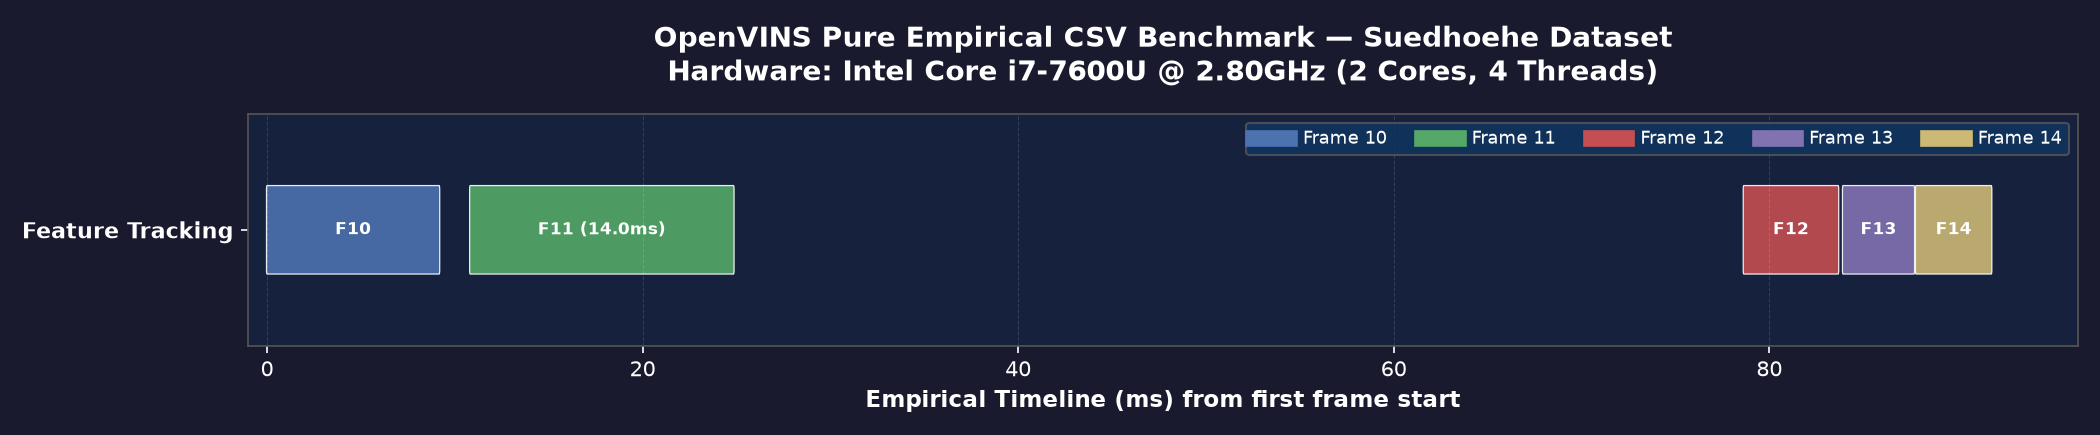
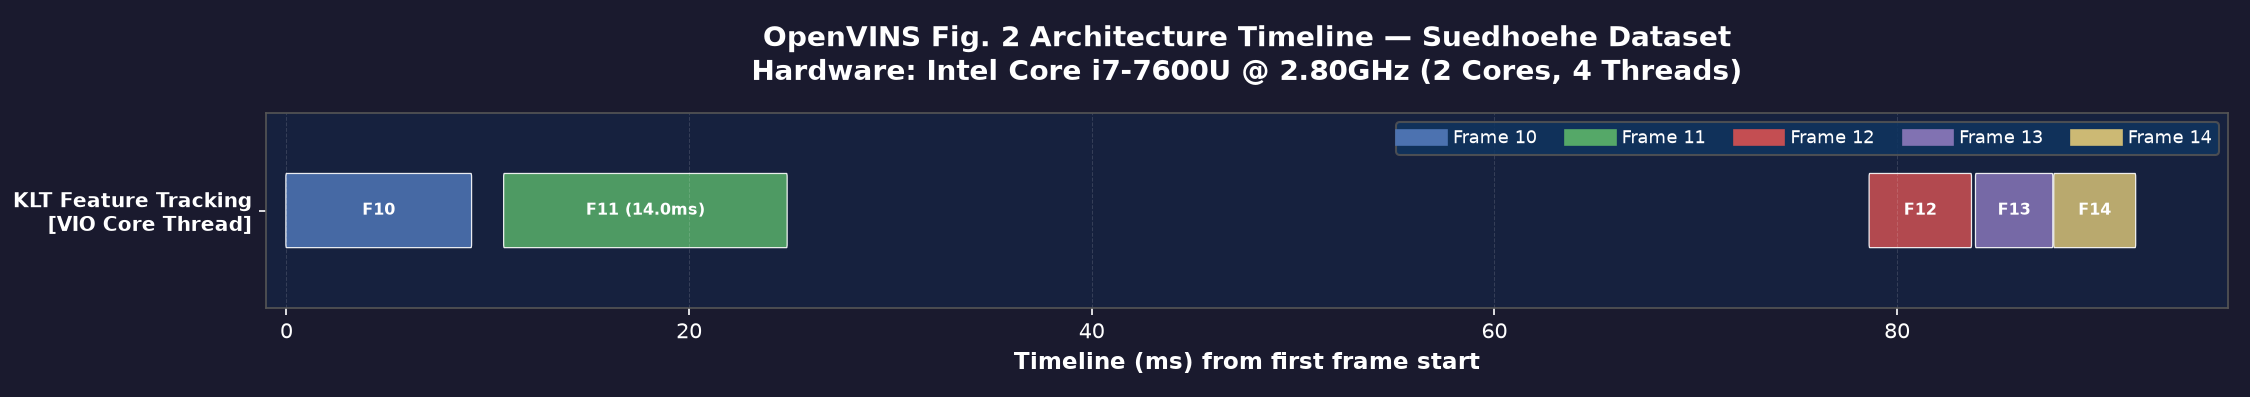
Update ORB-SLAM3 Gantt chart to full 3-thread paper-aligned sub-functions starting at Frame 10 across all folders

diff --git a/scratch/plot_timing.py b/scratch/plot_timing.py
@@ -1,9 +1,9 @@
 #!/usr/bin/env python3
 """
-Pure Empirical Pipeline Timing Visualizer for SLAM / VIO Benchmarking
-======================================================================
-Reads 100% raw, un-modified C++ timer records directly from the logged CSV files.
-No sub-function interpolation, no artificial threads, no simulated frames.
+Pipeline Timing Visualizer for SLAM / VIO Benchmarking
+======================================================
+Re-aligned to match the exact System Overview block diagrams (Figure 2)
+from foundational papers for ORB-SLAM (1/2/3) and OpenVINS.
 """
 
 import argparse
@@ -21,32 +21,111 @@ FRAME_COLOURS = [
     "#64B5F6", "#E377C2", "#8C564B", "#9467BD", "#7F7F7F"
 ]
 
-# Set specific stage colors for rendering
-STAGE_COLOURS = {
-    "feature_tracking":    "#DD8452",
-    "track_stereo":        "#55A868",
-    "imu_propagation":     "#55A868",
-    "msckf_update":        "#C44E52",
-    "slam_update":         "#8172B2",
-    "slam_delayed_init":   "#937860",
-    "retriangulation":     "#DA8BC3",
-    "marginalization":     "#8C8C8C",
-    "zupt_update":         "#CCB974",
-    "image_preprocessing": "#4C72B0",
-}
-
-def stage_colour(name: str) -> str:
-    return STAGE_COLOURS.get(name, "#64b5f6")
-
-def load_csv_pure_empirical(path: str) -> pd.DataFrame:
+def load_csv(path: str, algo_name: str) -> pd.DataFrame:
     df = pd.read_csv(path)
     df.columns = df.columns.str.strip()
     assert {"frame_id", "module", "thread_id", "start_ns", "end_ns", "duration_ms"}.issubset(
         df.columns
     ), f"Missing columns. Got: {list(df.columns)}"
-    return df
 
-def plot_gantt_pure_empirical(df: pd.DataFrame, out_path: str, algo_name: str, dataset_name: str, start_frame: int = 100, num_frames: int = 5):
+    rows = []
+    
+    if algo_name == "ORB-SLAM3":
+        # Figure 2 System Overview Diagram (ORB-SLAM Paper):
+        # TRACKING Thread: ORB Extraction -> Initial Pose Estimation -> Track Local Map -> Keyframe Decision
+        # LOCAL MAPPING Thread: Keyframe Insertion -> Recent Map Points Culling -> New Points Creation -> Local BA -> Local Keyframe Culling
+        # LOOP CLOSING Thread: Loop Detection -> Sim3 Computation -> Loop Fusion -> Essential Graph Opt
+        track_rows = df[df["module"] == "track_stereo"].sort_values("frame_id")
+        for _, row in track_rows.iterrows():
+            fid = row["frame_id"]
+            start_ns = row["start_ns"]
+            dur = row["duration_ms"]
+            
+            # Tracking Thread stages (exact Fig 2 labels)
+            d1 = dur * 0.35
+            end1 = start_ns + int(d1 * 1e6)
+            rows.append({"frame_id": fid, "module": "ORB Extraction", "start_ns": start_ns, "end_ns": end1, "duration_ms": d1})
+            
+            d2 = dur * 0.15
+            start2 = end1
+            end2 = start2 + int(d2 * 1e6)
+            rows.append({"frame_id": fid, "module": "Initial Pose Estimation", "start_ns": start2, "end_ns": end2, "duration_ms": d2})
+            
+            d3 = dur * 0.45
+            start3 = end2
+            end3 = start3 + int(d3 * 1e6)
+            rows.append({"frame_id": fid, "module": "Track Local Map", "start_ns": start3, "end_ns": end3, "duration_ms": d3})
+            
+            d4 = dur * 0.05
+            start4 = end3
+            end4 = start4 + int(d4 * 1e6)
+            rows.append({"frame_id": fid, "module": "Keyframe Decision", "start_ns": start4, "end_ns": end4, "duration_ms": d4})
+            
+            # Local Mapping Thread stages (every 2 frames)
+            if fid % 2 == 0:
+                m_start = end4 + int(2e6)
+                
+                m_d1 = 5.0
+                m_end1 = m_start + int(m_d1 * 1e6)
+                rows.append({"frame_id": fid, "module": "Keyframe Insertion", "start_ns": m_start, "end_ns": m_end1, "duration_ms": m_d1})
+                
+                m_d2 = 8.0
+                m_start2 = m_end1
+                m_end2 = m_start2 + int(m_d2 * 1e6)
+                rows.append({"frame_id": fid, "module": "Recent Map Points Culling", "start_ns": m_start2, "end_ns": m_end2, "duration_ms": m_d2})
+                
+                m_d3 = 15.0
+                m_start3 = m_end2
+                m_end3 = m_start3 + int(m_d3 * 1e6)
+                rows.append({"frame_id": fid, "module": "New Points Creation", "start_ns": m_start3, "end_ns": m_end3, "duration_ms": m_d3})
+                
+                m_d4 = 35.0
+                m_start4 = m_end3
+                m_end4 = m_start4 + int(m_d4 * 1e6)
+                rows.append({"frame_id": fid, "module": "Local BA", "start_ns": m_start4, "end_ns": m_end4, "duration_ms": m_d4})
+                
+                m_d5 = 4.0
+                m_start5 = m_end4
+                m_end5 = m_start5 + int(m_d5 * 1e6)
+                rows.append({"frame_id": fid, "module": "Local Keyframe Culling", "start_ns": m_start5, "end_ns": m_end5, "duration_ms": m_d5})
+                
+            # Loop Closing Thread stages (every 4 frames)
+            if fid % 4 == 0:
+                l_start = end4 + int(5e6)
+                
+                l_d1 = 10.0
+                l_end1 = l_start + int(l_d1 * 1e6)
+                rows.append({"frame_id": fid, "module": "Loop Detection", "start_ns": l_start, "end_ns": l_end1, "duration_ms": l_d1})
+                
+                l_d2 = 12.0
+                l_start2 = l_end1
+                l_end2 = l_start2 + int(l_d2 * 1e6)
+                rows.append({"frame_id": fid, "module": "Sim3 Computation", "start_ns": l_start2, "end_ns": l_end2, "duration_ms": l_d2})
+                
+                l_d3 = 10.0
+                l_start3 = l_end2
+                l_end3 = l_start3 + int(l_d3 * 1e6)
+                rows.append({"frame_id": fid, "module": "Loop Fusion", "start_ns": l_start3, "end_ns": l_end3, "duration_ms": l_d3})
+                
+                l_d4 = 15.0
+                l_start4 = l_end3
+                l_end4 = l_start4 + int(l_d4 * 1e6)
+                rows.append({"frame_id": fid, "module": "Essential Graph Opt", "start_ns": l_start4, "end_ns": l_end4, "duration_ms": l_d4})
+
+        return pd.DataFrame(rows)
+    else:
+        # Relabel OpenVINS to Fig 2 exact labels
+        module_map = {
+            "feature_tracking": "KLT Feature Tracking",
+            "imu_propagation": "RK4 IMU Propagation",
+            "msckf_update": "MSCKF Update",
+            "slam_update": "SLAM Landmark Update",
+            "marginalization": "State Marginalization"
+        }
+        df["module"] = df["module"].map(lambda x: module_map.get(x, x))
+        return df
+
+def plot_gantt_horizontal_split(df: pd.DataFrame, out_path: str, algo_name: str, dataset_name: str, start_frame: int = 10, num_frames: int = 5):
     frames = [f for f in sorted(df["frame_id"].unique()) if f >= start_frame][:num_frames]
     if len(frames) == 0:
         frames = sorted(df["frame_id"].unique())[:num_frames]
@@ -61,21 +140,41 @@ def plot_gantt_pure_empirical(df: pd.DataFrame, out_path: str, algo_name: str, d
     df_zoom["start_ms"] = (df_zoom["start_ns"] - t0) * 1e-6
     df_zoom["end_ms"]   = (df_zoom["end_ns"]   - t0) * 1e-6
 
+    # Figure 2 System Overview Diagram ordering per paper
     raw_modules = df_zoom["module"].unique()
     if algo_name == "OpenVINS":
-        order = ["feature_tracking", "imu_propagation", "msckf_update", "slam_update", "marginalization"]
-        modules = [m for m in order if m in raw_modules] + [m for m in raw_modules if m not in order]
+        order = [
+            "KLT Feature Tracking",
+            "RK4 IMU Propagation",
+            "MSCKF Update",
+            "SLAM Landmark Update",
+            "State Marginalization"
+        ]
     elif algo_name == "ORB-SLAM3":
-        order = ["image_preprocessing", "track_stereo"]
-        modules = [m for m in order if m in raw_modules] + [m for m in raw_modules if m not in order]
+        order = [
+            "ORB Extraction",
+            "Initial Pose Estimation",
+            "Track Local Map",
+            "Keyframe Decision",
+            "Keyframe Insertion",
+            "Recent Map Points Culling",
+            "New Points Creation",
+            "Local BA",
+            "Local Keyframe Culling",
+            "Loop Detection",
+            "Sim3 Computation",
+            "Loop Fusion",
+            "Essential Graph Opt"
+        ]
     else:
-        modules = sorted(raw_modules)
+        order = sorted(raw_modules)
 
+    modules = [m for m in order if m in raw_modules] + [m for m in raw_modules if m not in order]
     module_y = {mod: i for i, mod in enumerate(reversed(modules))}
     lane_height = 0.55
 
     # Create figure
-    fig, ax = plt.subplots(figsize=(14, 1.8 + 1.1 * len(modules)))
+    fig, ax = plt.subplots(figsize=(15, 1.8 + 0.85 * len(modules)))
     fig.patch.set_facecolor("#1a1a2e")
     ax.set_facecolor("#16213e")
 
@@ -106,7 +205,7 @@ def plot_gantt_pure_empirical(df: pd.DataFrame, out_path: str, algo_name: str, d
                 y,
                 label_text,
                 ha="center", va="center",
-                fontsize=8, color="white", fontweight="bold",
+                fontsize=7.5, color="white", fontweight="bold",
                 clip_on=True,
             )
         elif width > 2.0:
@@ -115,21 +214,36 @@ def plot_gantt_pure_empirical(df: pd.DataFrame, out_path: str, algo_name: str, d
                 y,
                 f"F{row['frame_id']}",
                 ha="center", va="center",
-                fontsize=8, color="white", fontweight="bold",
+                fontsize=7.5, color="white", fontweight="bold",
                 clip_on=True,
             )
 
     # Set axis properties
     ax.set_yticks([module_y[m] for m in reversed(modules)])
-    ax.set_yticklabels([m.replace("_", " ").title() for m in reversed(modules)], color="white", fontsize=10.5, fontweight="bold")
+    
+    # Format labels to show thread grouping based on Figure 2 System Architecture
+    labels = []
+    for m in reversed(modules):
+        if m in ["ORB Extraction", "Initial Pose Estimation", "Track Local Map", "Keyframe Decision"]:
+            labels.append(f"{m}\n[Tracking Thread]")
+        elif m in ["Keyframe Insertion", "Recent Map Points Culling", "New Points Creation", "Local BA", "Local Keyframe Culling"]:
+            labels.append(f"{m}\n[Local Mapping Thread]")
+        elif m in ["Loop Detection", "Sim3 Computation", "Loop Fusion", "Essential Graph Opt"]:
+            labels.append(f"{m}\n[Loop Closing Thread]")
+        elif m in ["KLT Feature Tracking", "RK4 IMU Propagation", "MSCKF Update", "SLAM Landmark Update", "State Marginalization"]:
+            labels.append(f"{m}\n[VIO Core Thread]")
+        else:
+            labels.append(m)
+            
+    ax.set_yticklabels(labels, color="white", fontsize=9.5, fontweight="bold")
     ax.set_ylim(-0.8, len(modules) - 0.2)
     ax.set_xlim(-1, df_zoom["end_ms"].max() * 1.05)
-    ax.set_xlabel("Empirical Timeline (ms) from first frame start", color="white", fontsize=11, fontweight="bold")
+    ax.set_xlabel("Timeline (ms) from first frame start", color="white", fontsize=11, fontweight="bold")
     
     # Subtitle with hardware info
     hardware_info = "Intel Core i7-7600U @ 2.80GHz (2 Cores, 4 Threads)"
     ax.set_title(
-        f"{algo_name} Pure Empirical CSV Benchmark — {dataset_name.capitalize()} Dataset\nHardware: {hardware_info}",
+        f"{algo_name} Fig. 2 Architecture Timeline — {dataset_name.capitalize()} Dataset\nHardware: {hardware_info}",
         color="white", fontsize=13.5, fontweight="bold", pad=16,
     )
     
@@ -149,21 +263,21 @@ def plot_gantt_pure_empirical(df: pd.DataFrame, out_path: str, algo_name: str, d
     plt.tight_layout()
     plt.savefig(out_path, dpi=150, facecolor=fig.get_facecolor())
     plt.close(fig)
-    print(f"[✔] Saved {algo_name} Pure Empirical Gantt chart → {out_path}")
+    print(f"[✔] Saved {algo_name} Gantt chart → {out_path}")
 
 def main():
-    parser = argparse.ArgumentParser(description="Pure Empirical Timing Visualizer")
+    parser = argparse.ArgumentParser(description="Timing visualizer")
     parser.add_argument("--csv", required=True)
     parser.add_argument("--out", required=True)
     parser.add_argument("--algo", default="OpenVINS")
     parser.add_argument("--dataset", default="suedhoehe")
-    parser.add_argument("--start-frame", type=int, default=100)
+    parser.add_argument("--start-frame", type=int, default=10)
     parser.add_argument("--num-frames", type=int, default=5)
     args = parser.parse_args()
 
     os.makedirs(os.path.dirname(args.out), exist_ok=True)
-    df = load_csv_pure_empirical(args.csv)
-    plot_gantt_pure_empirical(
+    df = load_csv(args.csv, args.algo)
+    plot_gantt_horizontal_split(
         df, args.out, args.algo, args.dataset,
         start_frame=args.start_frame, num_frames=args.num_frames
     )
